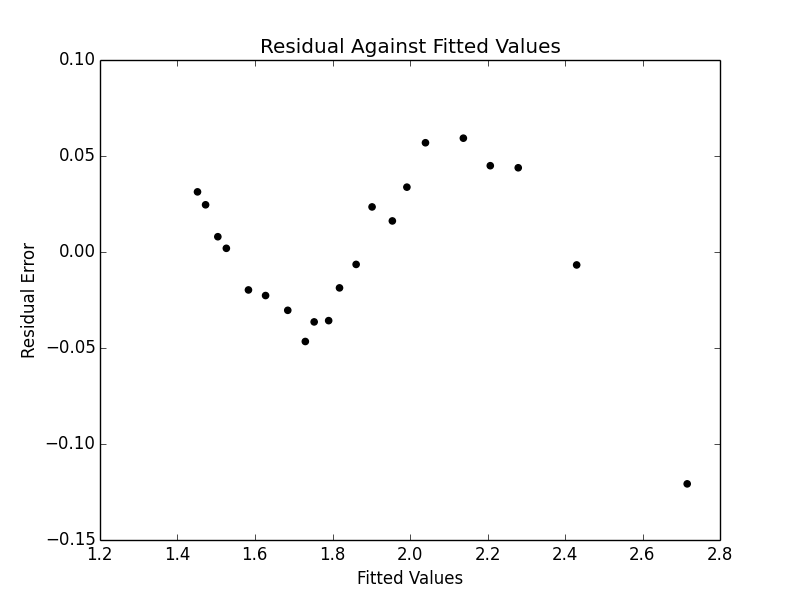
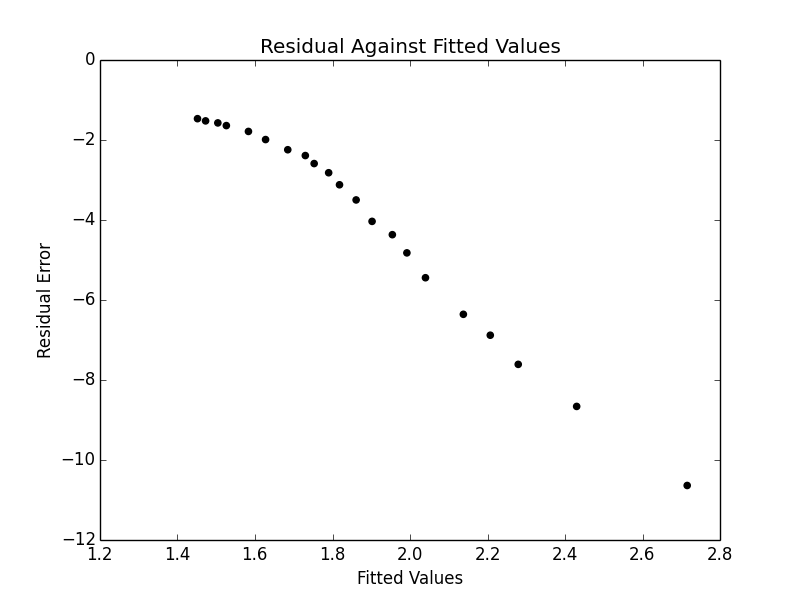
Adding Problem 10 files

diff --git a/Problem7.11.py b/Problem7.11.py
@@ -1,11 +1,79 @@
 import pandas
 import numpy
 
+import math
+
 # For linear regression
 from sklearn import linear_model
 
 # FOr plotting
 import matplotlib.pyplot as plt
+
+def log_regress():
+	filename = "abalone_dataset.txt"
+	my_data = pandas.read_csv(filename, sep=",", usecols = [1, 2, 3, 4, 5, 6, 7, 8], skip_blank_lines=True)
+	my_data = my_data.replace(0, 0.00000001)
+	
+	x_values = my_data[[0, 1, 2, 3, 4, 5, 6]].values
+	y_values_1 = my_data[[7]].values
+
+	# Dataset description says add 1.5 to get age in year
+	y_values = y_values_1 + 1.5
+
+	# Take the log of the entire dataset
+	x_values = numpy.log(x_values)
+	y_values = numpy.log(y_values)
+
+	model = linear_model.LinearRegression()
+	model.fit(x_values, y_values)
+
+	print model.coef_			# [[-0.37012624  0.15745183  0.02948508  0.54335089 -0.52096194 -0.05743193	 0.3337817 ]]
+
+	y_predicted = model.predict(x_values)
+	y_predicted_transformed = numpy.array([math.pow(y_predicted[i][0], math.e) for i in range(len(y_values))]).reshape(-1, 1)
+
+	residual = y_values_1 - y_predicted_transformed
+	plt.scatter(y_values, residual, color='green')
+	plt.title("Residual Against Fitted Values Without Gender")
+	plt.ylabel("Residual Error")
+	plt.xlabel("Age (In Years)")
+	plt.show()
+
+
+def log_regress_with_gender():						# FIX ME
+	filename = "abalone_dataset.txt"
+	my_data = pandas.read_csv(filename, sep=",", usecols = [0, 1, 2, 3, 4, 5, 6, 7, 8], skip_blank_lines=True)
+	
+	# Convert Gender to numerical values
+	my_data = my_data.replace("F", 1)
+	my_data = my_data.replace("M", -1)
+	my_data = my_data.replace("I", 0)
+	my_data = my_data.replace(0, 0.00000001)
+
+	x_values = my_data[[0, 1, 2, 3, 4, 5, 6, 7]].values
+	y_values_1 = my_data[[8]].values
+
+	# Dataset description says add 1.5 to get age in year
+	y_values = y_values_1 + 1.5
+
+	# Take the log of the entire dataset
+	x_values = numpy.log(x_values)
+	y_values = numpy.log(y_values)
+
+	model = linear_model.LinearRegression()
+	model.fit(x_values, y_values)
+
+	print model.coef_
+
+	y_predicted = model.predict(x_values)
+	y_predicted_transformed = numpy.array([math.pow(y_predicted[i][0], math.e) for i in range(len(y_values))]).reshape(-1, 1)
+
+	residual = y_values_1 - y_predicted_transformed
+	plt.scatter(y_values, residual, color='green')
+	plt.title("Residual Against Fitted Values Without Gender")
+	plt.ylabel("Residual Error")
+	plt.xlabel("Age (In Years)")
+	plt.show()
 
 def basic_regression():
 	filename = "abalone_dataset.txt"
@@ -62,6 +130,12 @@ def main():
 
 	# part b
 	#regression_with_gender()
+
+	# part c
+	#log_regress()
+
+	# part d
+	log_regress_with_gender()
 
 if __name__ == '__main__':
 	main()

diff --git a/Problem7.10.py b/Problem7.10.py
@@ -18,13 +18,23 @@ def linear_reg():
 	filename = "physical.txt"
 	my_data = pandas.read_csv(filename, sep="\t", header=0)
 
-	#x_values = my_data[:, 1:11].values
-	y_values = my_data["Mass"].values.reshape(-1, 1)
-	#print x_values
-	print y_values
+	x_values = my_data[[1, 2, 3, 4, 5, 6, 7, 8, 9, 10]].values
+	y_values = my_data[[0]].values
 
-	#model = linear_model.LinearRegression()
-	#model.fit(x_values, y_values)
+	print (x_values)
+	print (y_values)
+
+	model = linear_model.LinearRegression()
+	model.fit(x_values, y_values)
+
+	print model.coef_			# [[ 1.78181867  0.1550904   0.18913544 -0.48183705 -0.02931235  0.66144124		0.31784645  0.44589018  0.29721231 -0.91956267]]
+
+	# Plot the regression line
+	residual = y_values - model.predict(x_values)
+	plt.scatter(y_values, residual, color='black')
+	plt.ylabel("Residual")
+	plt.xlabel("Fitted Values")
+	plt.show()
 
 
 def cube_root_reg():

diff --git a/Problem7.9.py b/Problem7.9.py
@@ -115,7 +115,11 @@ def regress_log_log():
 	plt.show()
 
 	# Plot the residual against the fitted values
-	residual = y_values - model.predict(x_values)
+	y_predicted = model.predict(x_values)
+
+	y_predicted_transformed = numpy.array([math.pow(y_predicted[i][0], math.e) for i in range(len(y_predicted))]).reshape(-1, 1)
+
+	residual = y_values - y_predicted_transformed		# change to e^
 	plt.scatter(y_values, residual, color='black')
 	plt.title("Residual Against Fitted Values")
 	plt.ylabel("Residual Error")
@@ -123,11 +127,11 @@ def regress_log_log():
 	plt.show()
 
 def main():
-	#regress_log_log()
+	regress_log_log()
 
 	#regress_curve()
 
-	regress_curve_2()
+	#regress_curve_2()
 
 if __name__ == '__main__':
 	main()
